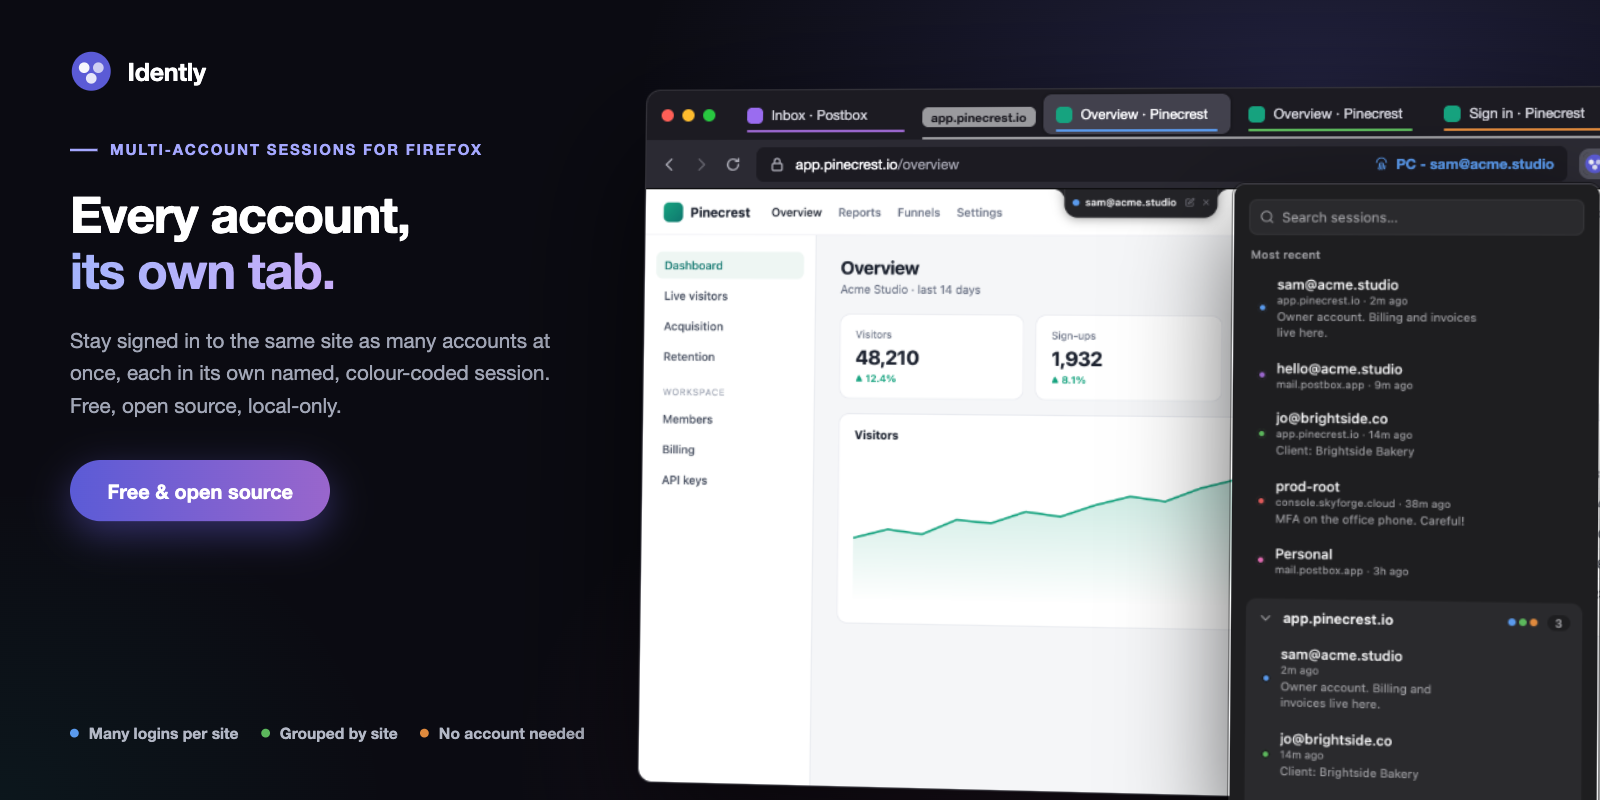
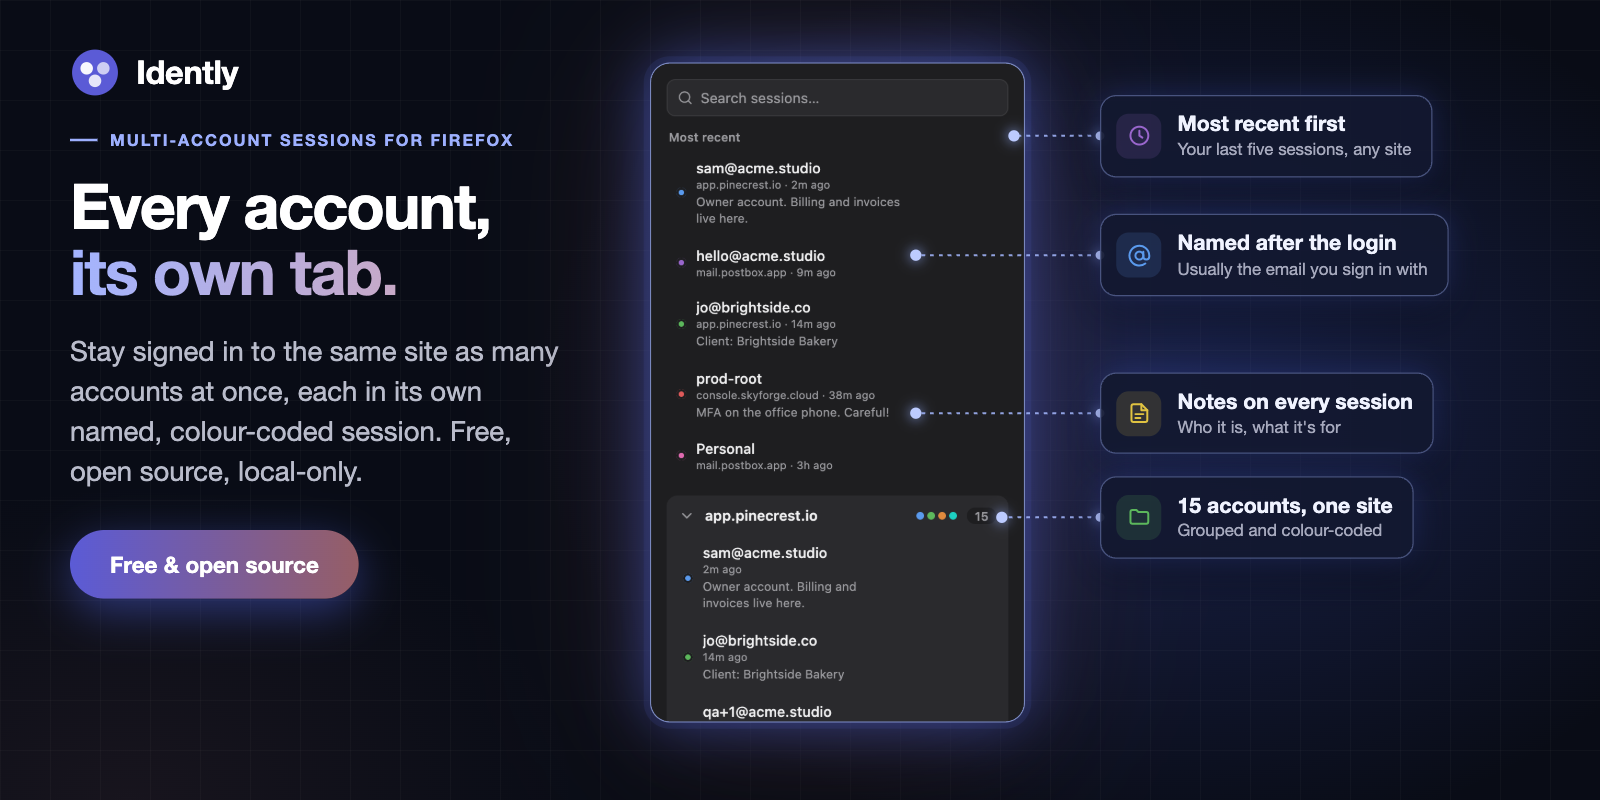
feat: update image assets and enhance descriptions in documentation

diff --git a/docs/index.html b/docs/index.html
@@ -39,8 +39,8 @@ Each login gets its own named, colour-coded session in its own tab, and a small
 notch on the page always tells you which one you're in.</p>
 
 <img class="hero" src="social-preview.png" width="1600" height="800"
-     alt="Firefox with three Pinecrest tabs, each underlined in a different container colour, and the Idently popup listing sessions grouped by site, each with a name, a coloured dot and a note.">
-<p class="caption">Three accounts on one site, side by side, each in its own tab.</p>
+     alt="The Idently popup listing recent sessions named after their login emails, each with a coloured dot and a note, above a group of 15 sessions for app.pinecrest.io. Callouts point out most-recent-first, names, notes and the group count.">
+<p class="caption">Sessions named after their logins, with notes, grouped by site.</p>
 
 <p>Click <strong>New session tab</strong> on any site and Idently opens it in a fresh
 Firefox container, a separate cookie jar, so you can sign in as someone else
